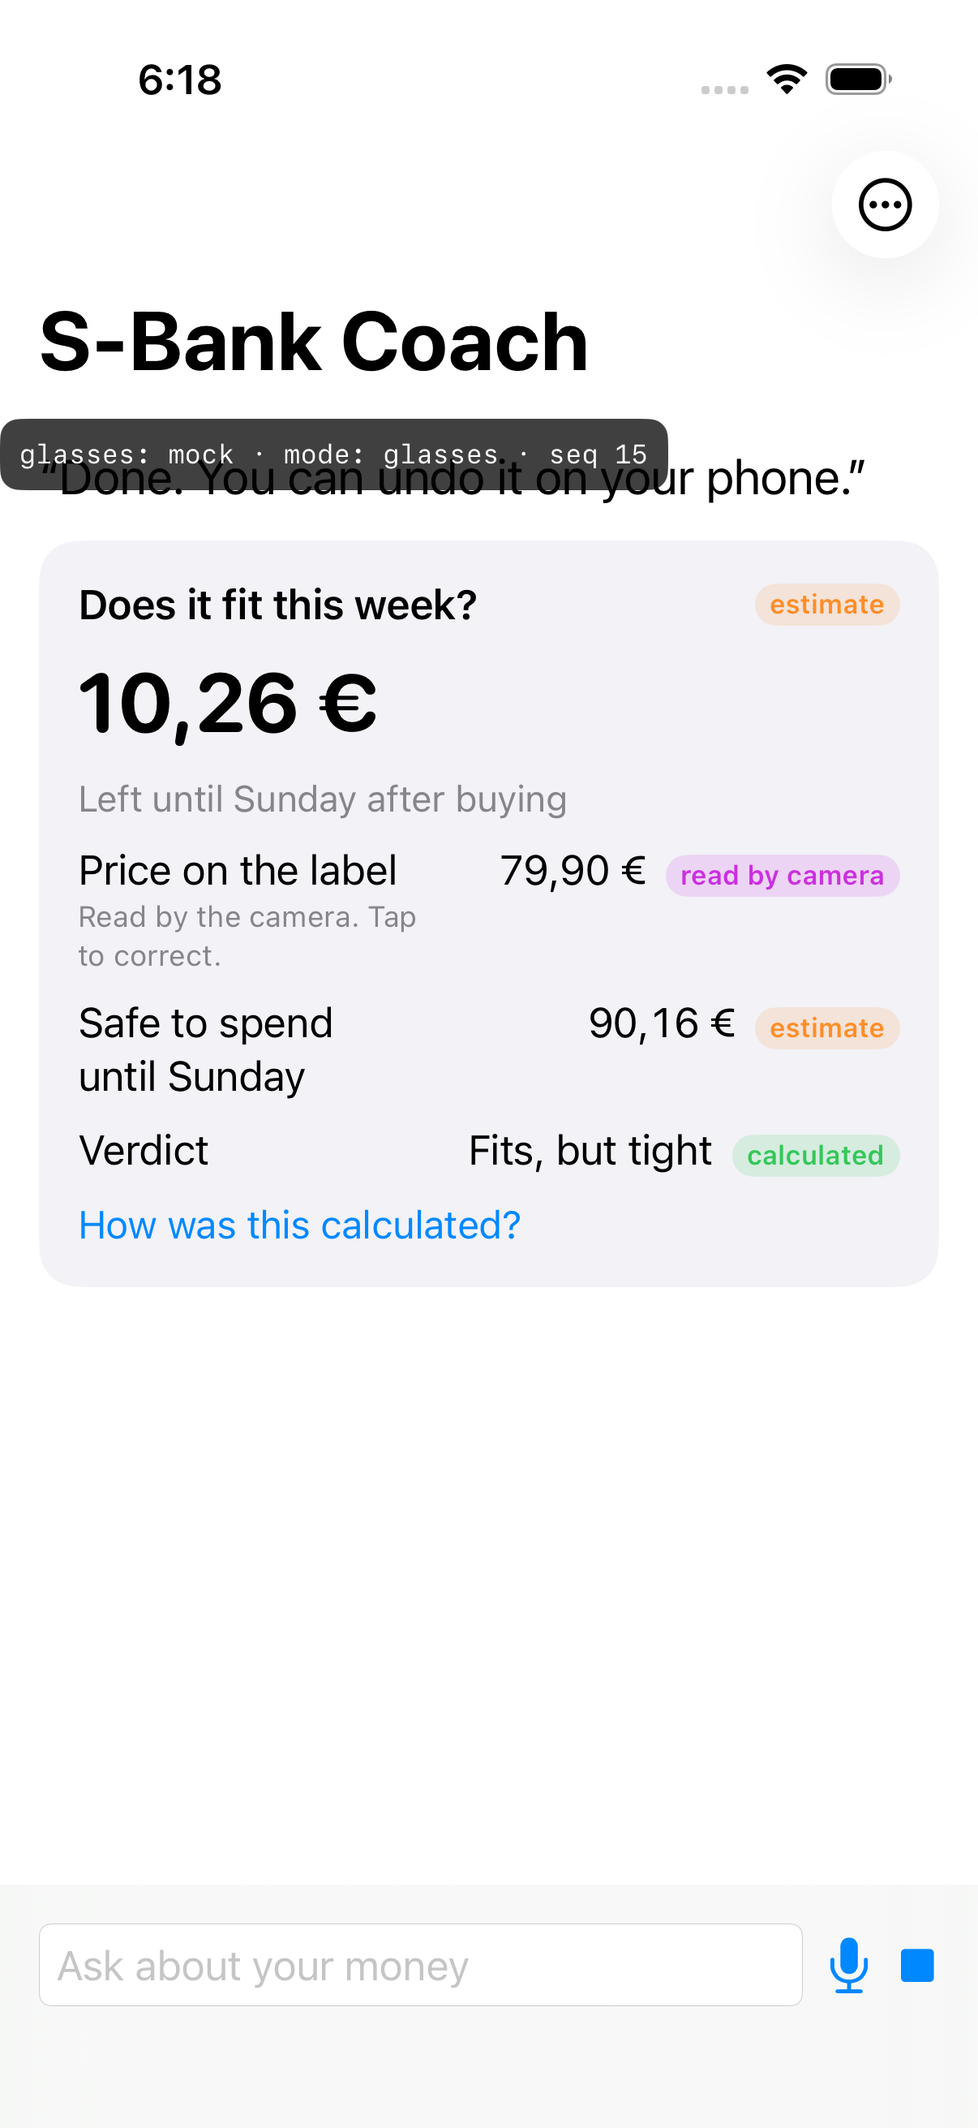
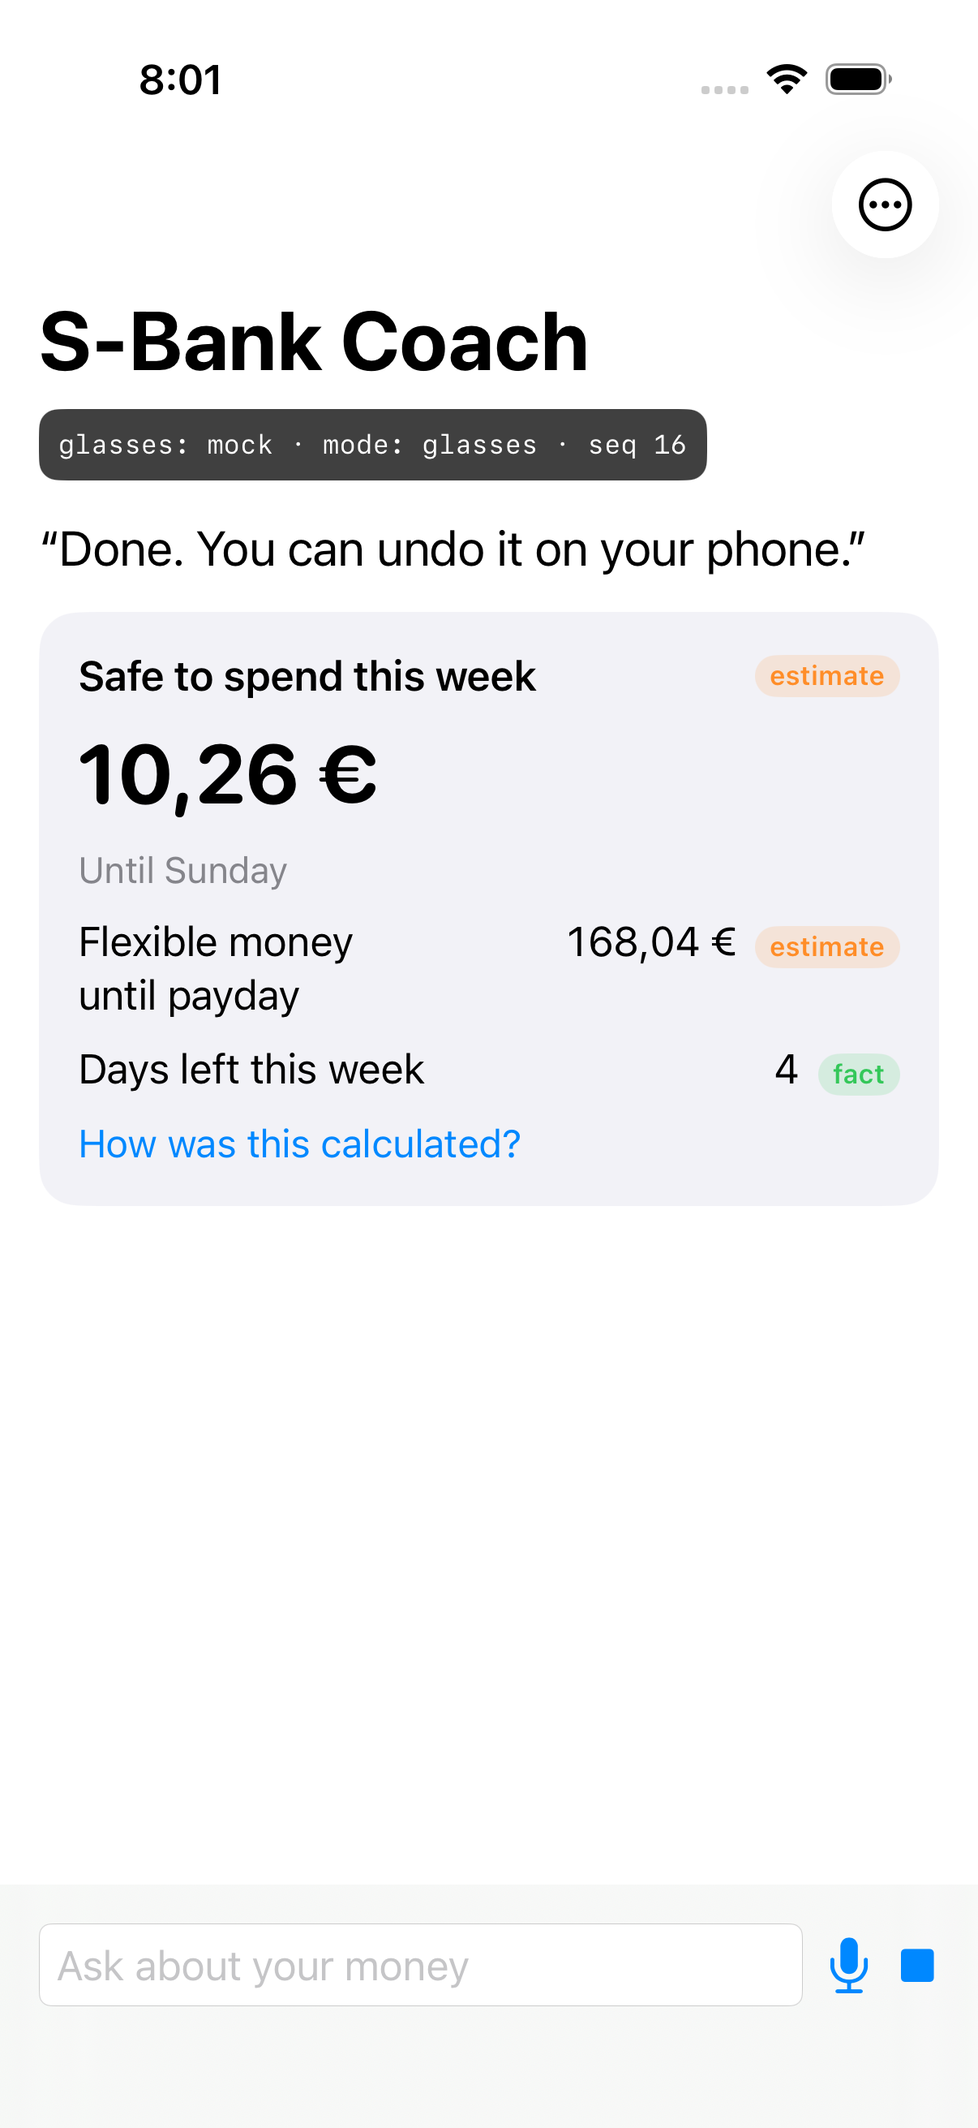
docs: drop S-Bank from the README and submission, refresh screenshots
S-Bank is no longer part of the project, so the README and the submission
text describe "the money coach" and "the team's money engine" instead.

- README: new screenshots from the latest passing UI-test run (the debug
  strip no longer covers the answer), a "Where the numbers come from"
  section for the user_stated, s_pankki and fixture sources, and updated
  counts (63 backend tests, 25 decisions).
- submission.md: project name Spendtacles, repo links point to
  kqtiiv/Spendtacles, CI status settled as passing.

The app UI and backend identifiers (sbank-coach, s_pankki) still carry
the old name.

Changed region(s): [[0.0, 0.1854, 0.9204, 0.587], [0.1534, 0.0309, 0.2148, 0.0618], [0.5829, 0.5252, 0.6136, 0.5561]]

diff --git a/README.md b/README.md
@@ -1,29 +1,29 @@
 # Spendtacles
 
-**A finance coach in your Ray-Ban Meta glasses.** Look at a price, ask *"Does this fit my week?"* (or *"Mahtuuko tämä viikon budjettiin?"*), and hear an answer built on numbers you can check. Nothing changes without your OK.
+**A finance coach in your Ray-Ban Meta glasses.** Look at a price, ask *"Can I afford this?"* (or *"Onko minulla varaa tähän?"*), and hear an answer built on numbers you can check. Nothing changes without your OK.
 
-Spendtacles is a glasses platform with one stable capability interface. **S-Bank Coach** is the first capability that plugs into it. Built for Junction 2026, challenge *AI Glasses for Everyone, Everyday*.
+Spendtacles is a glasses platform with one stable capability interface, and the money coach is the first capability that plugs into it. Built for Junction 2026, challenge *AI Glasses for Everyone, Everyday*.
 
 ## The demo flow
 
-These screenshots come from CI, not a mock-up. The UI test runs the real iOS app in the iOS Simulator, with Meta's **Mock Device Kit** standing in for the glasses, against the real backend. ([`CompanionUITests.swift`](companion-ios/UITests/CompanionUITests.swift), [`ios.yml`](.github/workflows/ios.yml))
+These screenshots come from CI, not a mock-up. The UI test runs the real iOS app in the iOS Simulator, with Meta's **Mock Device Kit** standing in for the glasses, against the real backend in fixture mode. ([`CompanionUITests.swift`](companion-ios/UITests/CompanionUITests.swift), [`ios.yml`](.github/workflows/ios.yml))
 
 <table>
   <tr>
     <td align="center" width="25%"><img src="companion-ios/App/Resources/demo_price_label.jpg" alt="Demo price label: LANGATTOMAT KUULOKKEET, 79,90 €" width="240"></td>
     <td align="center" width="25%"><img src="docs/images/1-consent.png" alt="Consent screen: Before we start" width="240"></td>
-    <td align="center" width="25%"><img src="docs/images/2-answer-and-proposal.png" alt="Answer card with a proposal to add the purchase to this week's plan" width="240"></td>
-    <td align="center" width="25%"><img src="docs/images/3-confirmed.png" alt="Confirmed: 10,26 € left until Sunday" width="240"></td>
+    <td align="center" width="25%"><img src="docs/images/2-answer-and-proposal.png" alt="Spoken answer and a proposal to add the purchase to this week's planned spending" width="240"></td>
+    <td align="center" width="25%"><img src="docs/images/3-confirmed.png" alt="Confirmed: 10,26 € safe to spend this week" width="240"></td>
   </tr>
   <tr>
     <td valign="top"><b>0. What the glasses see.</b> The simulated camera is fed this price label.</td>
     <td valign="top"><b>1. Consent first.</b> No finance turn runs without a grant. Photos are deleted as soon as the price is read.</td>
-    <td valign="top"><b>2. Answer + proposal.</b> <i>"If that price is 79.90, it fits, but it would leave about 10 euros until Sunday."</i> The coach proposes planning it in, and waits.</td>
-    <td valign="top"><b>3. Confirmed.</b> One explicit tap. Every value is labelled <i>read by camera</i>, <i>estimate</i> or <i>calculated</i>.</td>
+    <td valign="top"><b>2. Answer + proposal.</b> <i>"If that price is 79.90, it fits, but it would leave about 10 euros until Sunday. Want me to plan it in?"</i> The proposal shows the before and after, and waits.</td>
+    <td valign="top"><b>3. Confirmed.</b> One explicit tap, and the card updates to the new figure. Every value is labelled <i>fact</i>, <i>estimate</i>, <i>calculated</i> or <i>read by camera</i>.</td>
   </tr>
 </table>
 
-The dark strip at the top (`glasses: mock · mode: glasses · seq …`) is the debug overlay. It is there on purpose: **mocks are never silent** (DEC-005), so the app always shows when simulated glasses or fixture data are in play.
+The dark strip under the title (`glasses: mock · mode: glasses · seq …`) is the debug overlay. It is there on purpose: **mocks are never silent** (DEC-005), so the app always shows when simulated glasses or fixture data are in play.
 
 ## Built to be trusted
 
@@ -33,33 +33,54 @@ The dark strip at the top (`glasses: mock · mode: glasses · seq …`) is the d
 - **Consent is fail-closed.** Revoking consent deletes the captures made under it.
 - **Money is never a float.** Amounts are decimal strings end to end.
 
-## No bank connected? Just say a number
+## Where the numbers come from
 
-With `FINANCE_SOURCE=user_stated` the coach works without any bank data, and without a setup screen. The first time a question needs money figures, it asks one thing out loud and then answers the original question:
+`FINANCE_SOURCE` picks the source. Whatever it is, the coach's wording and the trust rules above stay the same.
 
-> "Does this fit my week?" → "How much do you want to spend until Sunday?" → "About a hundred." → "Got it: 100 euros until Sunday. If the label's right, that leaves about 20. Want me to plan it in?"
+### No bank connected? Just say a number (`user_stated`)
+
+The coach works without any bank data, and without a setup screen. The first time a question needs money figures, it asks one thing out loud and then answers the original question:
+
+> "Can I afford this?" → "How much do you want to spend until Sunday?" → "About a hundred." → "Got it: 100 euros until Sunday. If the label's right, that leaves about 20. Want me to plan it in?"
 
 - It understands digits and round number words in English and Finnish ("about a hundred", "noin sata"). An unclear answer gets one retry, then the coach drops the question politely. It never guesses.
 - The amount carries over to later weeks. Saying "my budget this week is 60" changes it, and confirmed plans count down from it.
 - Cards label it *"Your weekly amount, as you told me"* and say no bank is connected. These are the user's own figures, so they are not reported as a mock.
 
+### The team's money engine on transaction data (`s_pankki`)
+
+The answers come from our teammate's deterministic money engine, run on the Junction 2026 synthetic transaction dataset ([`finance-engine/`](finance-engine/README.md), DEC-024). It answers per day until payday, the way the engine computes it (DEC-025, proposed):
+
+> "What's safe to spend?" → "You can safely spend about 32 euros a day for the next 10 days, until payday."
+>
+> "Can I afford this?" (79,90 € label) → "If that price is 79.90, it fits. You'd still have about 24 euros a day until payday. Want me to plan it in?"
+
+- The engine's floats become decimal strings at the boundary, and every figure gets a `calc_id` that the verifier resolves back through the engine service.
+- The dataset is synthetic history, so "today" is a fixed simulated date (2026-09-05). Every result says so.
+- The demo customer is CUST04069. A customer whose bills exceed their balance is told plainly that nothing is safe to spend.
+
+### Fixture (`fixture`, the default)
+
+Fixed demo numbers (€90.16 safe to spend this week), reported as `mock` everywhere. This is what CI and the screenshots above use.
+
 ## What's real and what's mocked
 
 | | |
 |---|---|
-| **Real** | Orchestrator, consent, capture pipeline, confirmation signing, number verification, contracts, iOS companion core, the DAT SDK integration (built and driven in CI with Mock Device Kit) |
-| **Mocked** (labelled `mock` in `/health` and on screen) | Finance engine in the default `FINANCE_SOURCE=fixture` mode (S-Bank demo numbers: €90.16 safe to spend this week), label reader (always returns the demo €79.90 label), the Coach team's agent (client designed and tested against a fake agent, not yet connected) |
+| **Real** | Orchestrator, consent, capture pipeline, confirmation signing, number verification, contracts, iOS companion core, the DAT SDK integration (built and driven in CI with Mock Device Kit), and the team's money engine on transaction data (`s_pankki`, on a simulated date) |
+| **Mocked** (labelled `mock` in `/health` and on screen) | The `fixture` finance source, the label reader (always returns the demo €79.90 label), and the coach agent (client designed and tested against a fake agent, not yet connected) |
 | **Behind flags** | "Hey Meta" voice launch and glasses-tap confirmation are experimental in DAT 1.0.1, so each has a fallback (DEC-004, DEC-022) |
 
 ## Repository layout
 
 | Path | What it is |
 |---|---|
-| [`backend/`](backend/README.md) | Platform orchestrator + S-Bank Coach adapter. TypeScript, Node 22, Fastify. 48 tests. |
+| [`backend/`](backend/README.md) | Platform orchestrator + money-coach adapter. TypeScript, Node 22, Fastify. 63 tests. |
 | [`companion-ios/`](companion-ios/README.md) | iOS companion: glasses session, Bluetooth audio, speech, capture, cards. Swift, SwiftUI, Meta Wearables DAT 1.0.1. |
+| [`finance-engine/`](finance-engine/README.md) | HTTP service in front of the team's Python money engine: decimal strings, `calc_id`s, calculation lookups. Python, FastAPI. 10 tests. |
 | [`contracts/`](contracts/README.md) | Versioned JSON Schema contracts, valid/invalid examples as tests, generated TS/Swift/Kotlin/Python types, OpenAPI specs, the adapter interface |
 | [`docs/ARCHITECTURE.md`](docs/ARCHITECTURE.md) | Platform architecture |
-| [`docs/ARCHITECTURE_DECISION_LOG.md`](docs/ARCHITECTURE_DECISION_LOG.md) | 23 decisions (DEC-001 to DEC-023), each with alternatives, evidence and revisit triggers |
+| [`docs/ARCHITECTURE_DECISION_LOG.md`](docs/ARCHITECTURE_DECISION_LOG.md) | 25 decisions (DEC-001 to DEC-025), each with alternatives, evidence and revisit triggers |
 | [`docs/SOURCES.md`](docs/SOURCES.md), [`docs/adr/evidence/`](docs/adr/README.md) | Source register and research write-ups |
 | [`docs/finance/REFERENCE_DESIGN.md`](docs/finance/REFERENCE_DESIGN.md) | Finance-domain reference design |
 
@@ -71,7 +92,8 @@ cd contracts && npm install && npm run check
 
 # Backend (fixture data, demo token)
 cd backend && npm install && npm test && npm run dev    # http://localhost:8787
-FINANCE_SOURCE=user_stated npm run dev                  # no-bank-data mode instead of fixture numbers
+FINANCE_SOURCE=user_stated npm run dev                  # no bank data: the coach asks for a weekly amount
+FINANCE_SOURCE=s_pankki npm run dev                     # the team's engine (start finance-engine/ first, see its README)
 curl -H 'authorization: Bearer demo-token' localhost:8787/health
 
 # iOS companion core (macOS or Linux): unit tests, then the end-to-end smoke test against the running backend
@@ -83,4 +105,4 @@ The app itself needs Xcode. No Mac? The [`iOS companion`](.github/workflows/ios.
 
 ## What's next
 
-Real S-Bank data through its PSD2 sandbox, a real label reader, receipt matching, connecting the Coach team's agent, then more capabilities on the same platform.
+Real bank data through a PSD2 sandbox, a real label reader, receipt matching, connecting the coach agent, then more capabilities on the same platform.

diff --git a/docs/submission.md b/docs/submission.md
@@ -6,11 +6,11 @@ Lines marked **[CHECK]** depend on what is true on the night. Fix or delete them
 
 ## Project Name (max 30)
 
-Risorgenza
+Spendtacles
 
 ## Punchline (max 200)
 
-A finance coach in your Ray-Ban Meta glasses: look at a price, ask "does this fit my week?", and hear an answer built on numbers you can check. Nothing changes without your OK.
+A finance coach in your Ray-Ban Meta glasses: look at a price, ask "can I afford this?", and hear an answer built on numbers you can check. Nothing changes without your OK.
 
 ## Challenge
 
@@ -21,43 +21,44 @@ AI Glasses for Everyone, Everyday
 ### The problem
 Money decisions happen in the shop aisle, not in the banking app. By the time you open an app to check your budget, you've already paid. Glasses could help at the right moment, but a finance assistant you wear has to be trustworthy: it can't make numbers up, watch you all the time, or move money on its own.
 
-### What Risorgenza does
-Risorgenza turns Ray-Ban Meta glasses and your phone into a hands-free money coach. S-Bank Coach is its first capability.
+### What Spendtacles does
+Spendtacles turns Ray-Ban Meta glasses and your phone into a hands-free money coach. The coach is the first capability on the platform.
 
 1. Open the coach from the glasses.
-2. Look at a price label and ask **"Does this fit my week?"** (in English or Finnish: *"Mahtuuko tämä viikon budjettiin?"*).
-3. You hear a short answer through the glasses. Your phone shows a card with what's safe to spend this week and what this purchase would leave you.
+2. Look at a price label and ask **"Can I afford this?"** (in English or Finnish: *"Onko minulla varaa tähän?"*).
+3. You hear a short answer through the glasses, for example: *"If that price is 79.90, it fits. You'd still have about 24 euros a day until payday."* Your phone shows the card behind it: balance, bills still due, money free until payday.
 4. If changing your plan would help, the coach **proposes** the change. Nothing happens until you confirm.
 
 No glasses, or they're folded? The same coach works from the phone alone.
 
 ### Built to be trusted
-- **The AI never invents numbers.** Every figure comes from a deterministic finance engine and carries a calculation ID. Before anything is spoken or shown, a verifier checks each number against the engine's log. If the AI adds a number the engine didn't calculate, the verifier drops it (covered by tests).
-- **No action without confirmation.** Changes are proposals. Each confirmation is signed (ES256), single-use and expiring, and it is policy-checked on the server. Saying "stop" aborts a turn and never applies anything.
-- **The camera works only when you ask.** There is no always-on camera and no facial recognition. Before a photo leaves the phone, it is rotated upright, stripped of EXIF and GPS data, and downscaled. The finance capability receives what was read from the label, not the photo. The photo is deleted straight away when the capability keeps nothing.
+- **The AI never invents numbers.** Every figure comes from a deterministic finance engine and carries a calculation ID. Before anything is spoken or shown, a verifier checks each number against the engine's log. If the AI adds a number the engine didn't calculate, the verifier drops it.
+- **No action without confirmation.** Changes are proposals. Each confirmation is signed, single-use, expiring and checked on the server. Saying "stop" aborts a turn and never applies anything.
+- **The camera works only when you ask.** There is no always-on camera and no facial recognition. Before a photo leaves the phone, it is rotated upright, stripped of EXIF and GPS data, and downscaled. The finance capability receives what was read from the label, not the photo.
 - **Consent is fail-closed.** Without a consent grant, no finance turn runs. Revoking consent deletes the captures made under it.
 - **Money is never a float.** Amounts are decimal strings from end to end.
 
 ### A platform, not a one-off demo
-Risorgenza is a glasses platform with one stable interface that every capability implements. The S-Bank Coach team builds behind that interface without touching glasses code. The platform owns the glasses session, consent, capture, confirmation and verification. Every message between the parts follows a versioned JSON Schema contract, with types generated for TypeScript, Swift, Kotlin and Python. The trust rules are written into the schemas, so a message that breaks one is rejected automatically, and every example message runs as a test.
+Spendtacles is a glasses platform with one stable interface that every capability implements. The coach's engine is built behind that interface without touching glasses code. Every message between the parts follows a versioned JSON Schema contract, with types generated for TypeScript, Swift, Kotlin and Python. The trust rules are written into the schemas, so a message that breaks one is rejected automatically, and every example message runs as a test.
 
 ### Engineering we can show
-- **Backend** (TypeScript, Fastify): orchestrator and S-Bank Coach adapter. It handles sessions, glasses device state, consent, photo captures, streamed answers and signed confirmations, and all 39 tests pass.
+- **Backend** (TypeScript, Fastify): orchestrator and money-coach adapter. It handles sessions, glasses device state, consent, photo captures, streamed answers and signed confirmations, and all 63 tests pass.
+- **Our teammate's money engine** (Python) runs on the Junction 2026 synthetic transaction dataset behind a small service that turns its figures into decimal strings with calculation IDs. In the team's own two-year backtest, the safe-to-spend rule cut overdraft days by 89 %.
 - **iOS companion** (Swift, SwiftUI): manages the glasses session, Bluetooth audio, speech, capture and cards. The core is unit-tested, and an end-to-end smoke test runs the full demo flow against the real backend.
-- **Meta Wearables Device Access Toolkit 1.0.1**: the glasses connection is written against the SDK's public API. CI builds the app on macOS runners and drives it with Meta's Mock Device Kit (simulated glasses). **[CHECK: CI status]**
-- **23 recorded architecture decisions**, each with alternatives, evidence and the conditions for revisiting it. They draw on Meta's official samples and docs and on open-source glasses projects. From those projects we reused patterns only, after checking each licence.
+- **Meta Wearables Device Access Toolkit 1.0.1**: the glasses connection is written against the SDK's public API. CI builds the app on macOS runners and drives it with Meta's Mock Device Kit (simulated glasses), and the run passes.
+- **25 recorded architecture decisions**, each with alternatives, evidence and the conditions for revisiting it. Grounded in Meta's official samples and open-source glasses projects (patterns only, licences checked).
 
 ### What's real and what's mocked
-We label mocks in the product itself (`mock: true` in health checks and on screen), so here is the same list:
-- **Real:** the orchestrator, consent, capture pipeline, confirmation signing, number verification, contracts, and the iOS companion core.
-- **Mocked:** the finance engine uses fixture data (a fixed weekly safe-to-spend). The label reader returns the demo price label. The client for the Coach team's AI agent is designed and tested against a fake agent but not yet connected.
+We label mocks in the product itself, so here is the same list:
+- **Real:** the orchestrator, consent, capture pipeline, confirmation signing, number verification, contracts, the iOS companion core, and the team's money engine running on the synthetic transaction dataset.
+- **Mocked:** "today" is a fixed date inside the synthetic dataset (2026-09-05), and every answer says so. The label reader returns the demo price label.
 - **On real glasses:** **[CHECK: what you ran on the device, e.g. "capture and spoken answer verified on Ray-Ban Meta"; otherwise "demonstrated with Meta's Mock Device Kit"]**. "Hey Meta" voice launch and glasses-tap confirmation are experimental in Meta's SDK, so they are behind flags and the demo has a fallback for each.
 
 ### What's next
-Connect real S-Bank data through its PSD2 sandbox. Add a real label reader. Add receipt matching. Connect the Coach team's agent. Then add more capabilities on the same platform.
+Connect real bank data through a PSD2 sandbox. Add a real label reader. Add receipt matching. Add a language model that explains the engine's figures but never calculates. Then add more capabilities on the same platform.
 
 ### Tech
-Swift · SwiftUI · Meta Wearables DAT 1.0.1 · TypeScript · Node 22 · Fastify · JSON Schema (Ajv) · quicktype · ES256 JWS · GitHub Actions (macOS + Mock Device Kit) · Fly.io
+Swift · SwiftUI · Meta Wearables DAT 1.0.1 · Python · FastAPI · DuckDB · TypeScript · Node 22 · Fastify · JSON Schema (Ajv) · quicktype · ES256 JWS · GitHub Actions (macOS + Mock Device Kit) · Fly.io
 
 ---
 
@@ -65,10 +66,10 @@ Swift · SwiftUI · Meta Wearables DAT 1.0.1 · TypeScript · Node 22 · Fastify
 
 | Field | Value |
 |---|---|
-| Source Code | https://github.com/kqtiiv/Junction-2026 |
+| Source Code | https://github.com/kqtiiv/Spendtacles |
 | Project Demo | **[CHECK]** The deployed backend (`https://junction26-coach.fly.dev/health`) wasn't responding when checked. Leave blank, or link the CI screenshots / a demo recording. |
 | Video | **[TODO]** Record it (see the plan in chat) and upload it to YouTube (unlisted) or Loom |
-| Other Link | https://github.com/kqtiiv/Junction-2026/blob/main/docs/ARCHITECTURE_DECISION_LOG.md (works only once `docs/` is committed and pushed) |
+| Other Link | https://github.com/kqtiiv/Spendtacles/blob/main/docs/ARCHITECTURE_DECISION_LOG.md |
 | Presentation | **[TODO]** PDF deck |
 
 ## Tech challenges
